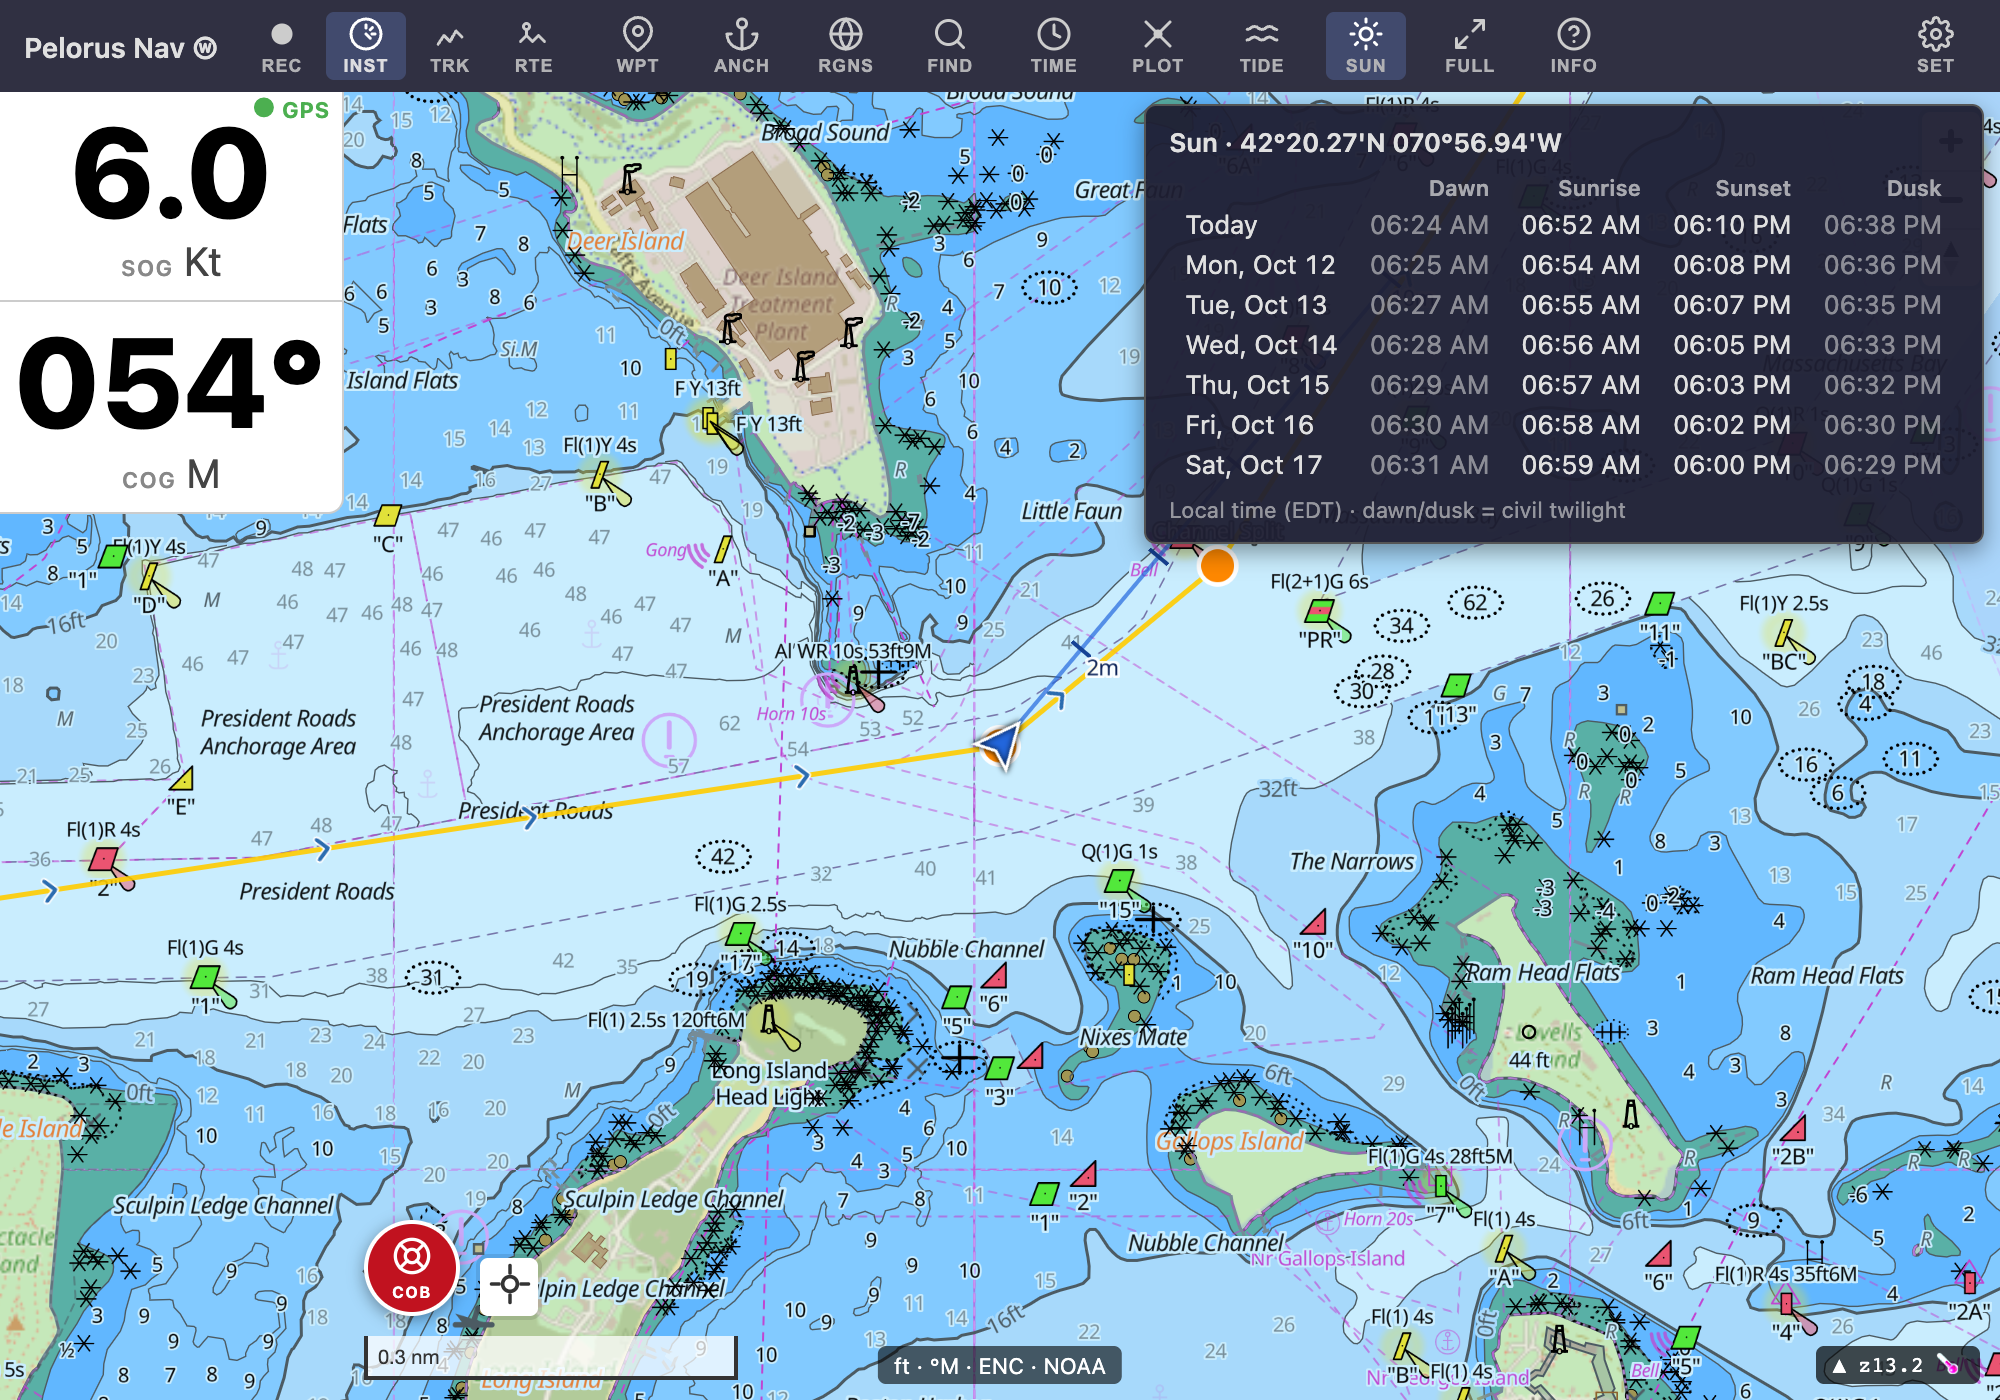
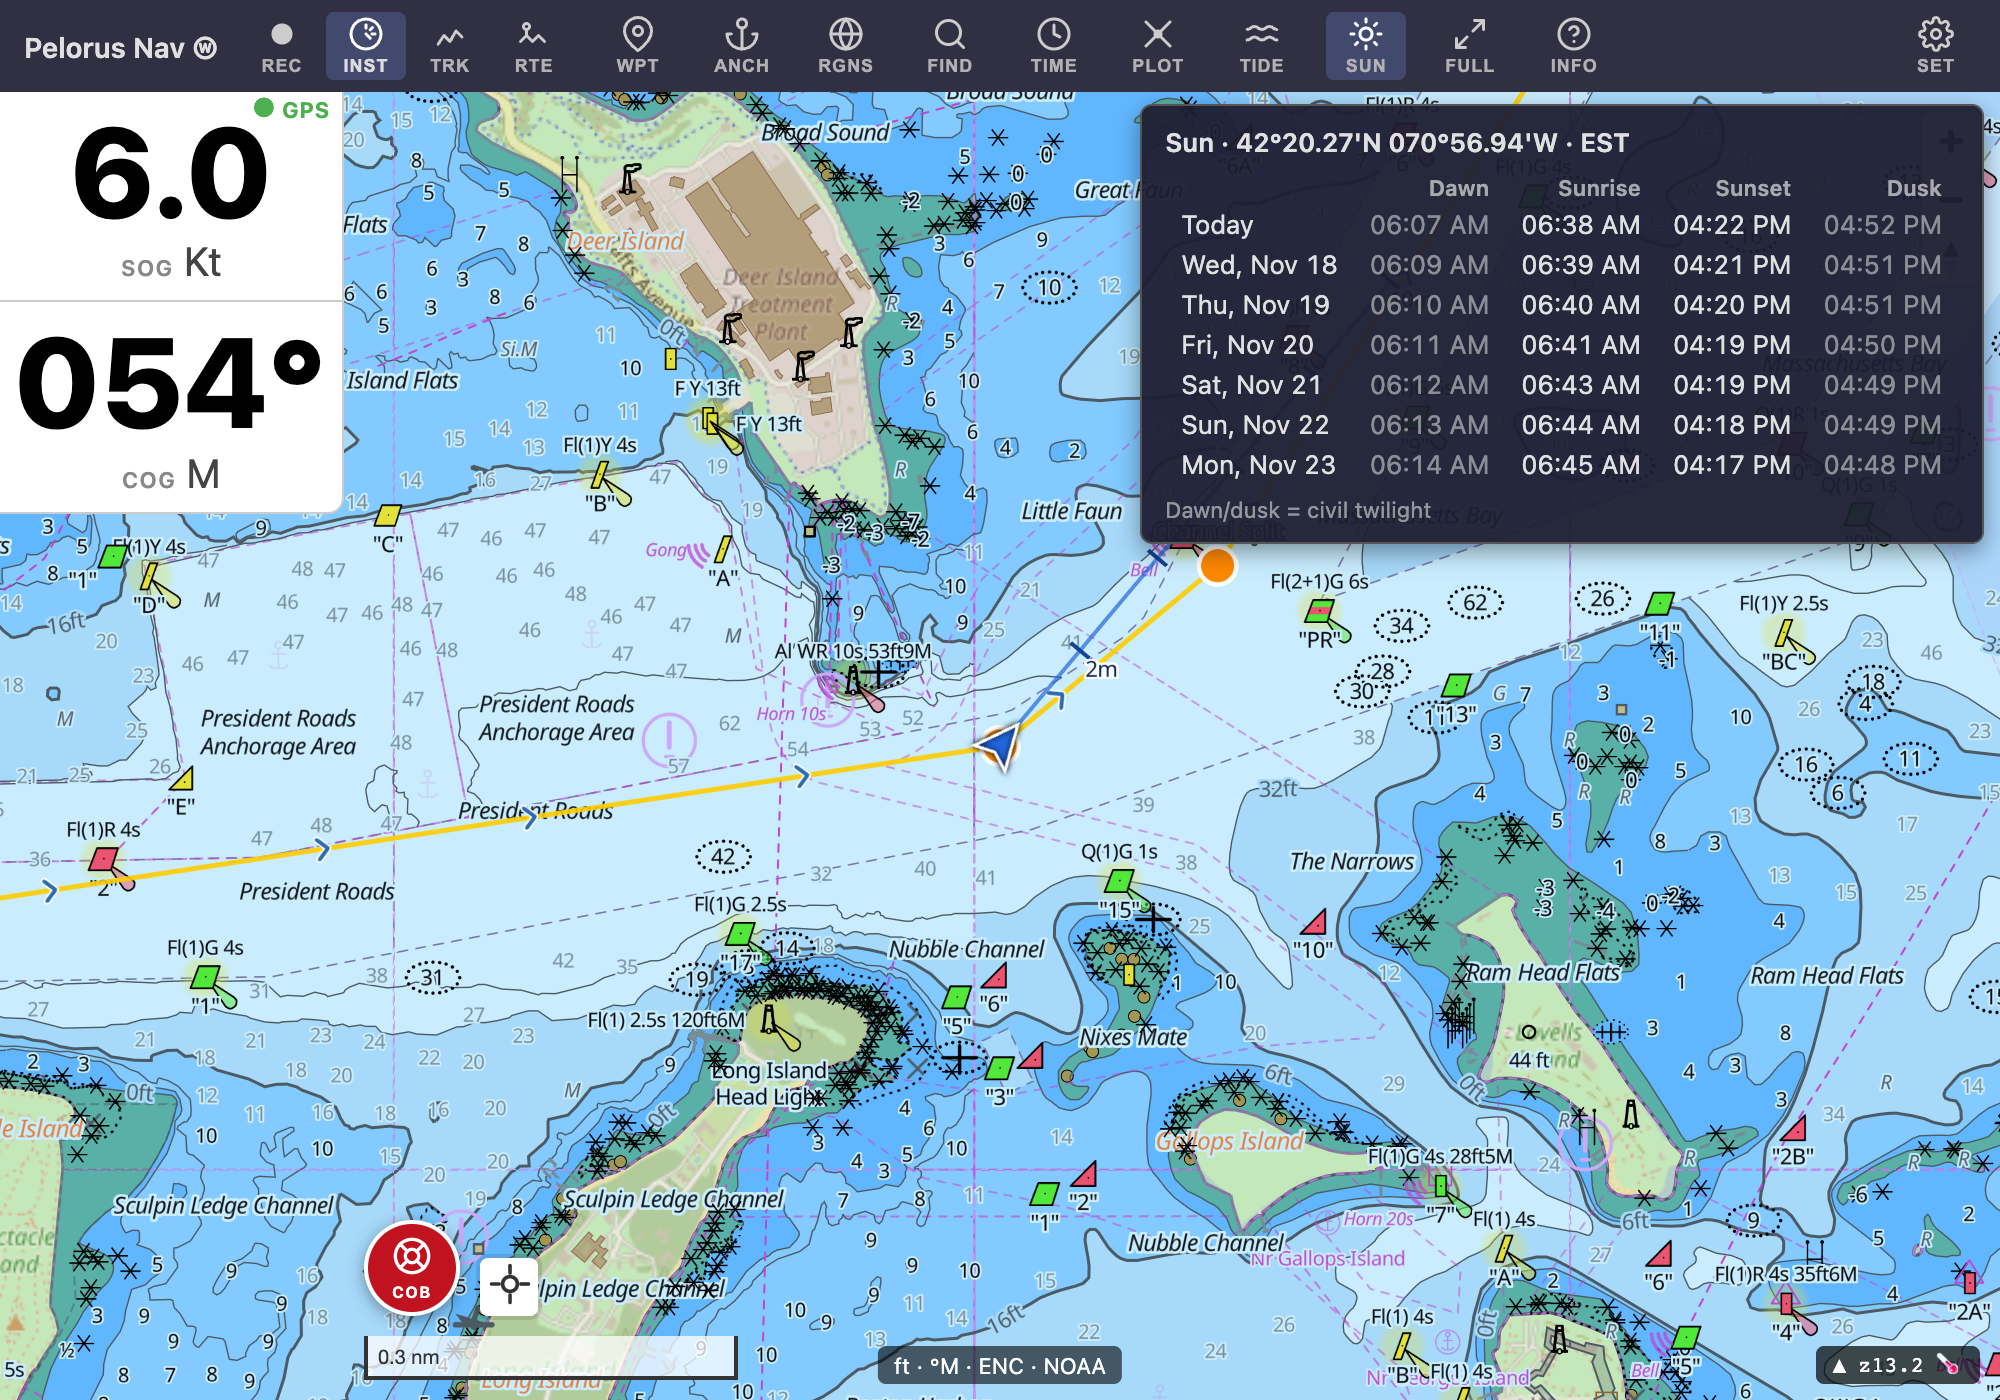
feat(ui): ETA for a go-to, sun time zone up top, first-run hints
- Navigating to a single waypoint now has a destination (the waypoint
  itself), so the caption shows Dest with its distance and arrival time,
  as on a route's last leg.
- The Sun panel shows its time zone in the title beside the position;
  the footer keeps the civil-twilight legend.
- An empty Waypoints panel explains how to mark one from the chart.
- In a browser with no GPS source or no fix after 15 s, a dismissible
  notice suggests an external GPS or the simulator and opens the GPS
  settings. E2E setup pre-dismisses it.

diff --git a/src/ui/NoGpsHint.ts b/src/ui/NoGpsHint.ts
@@ -1,0 +1,79 @@
+/**
+ * In a browser with no position source, the instruments just read "--" and
+ * the app looks like a chart viewer: offer an external GPS or the simulator.
+ * Shown once a while after startup with no fix, until dismissed once; the
+ * native apps always have the device's GPS and never show it.
+ */
+
+import { Capacitor } from "@capacitor/core";
+import { getSettings } from "../settings";
+import { showUpdateNotice } from "./updateNotice";
+
+const NOTICE_ID = "no-gps-hint";
+export const NO_GPS_HINT_DISMISSED_KEY = "pelorus-nav-no-gps-hint-dismissed";
+/** Long enough for a browser's own location to arrive when it can. */
+const WAIT_MS = 15_000;
+
+/** Sources with no receiver of their own: none, or the browser's location. */
+const DEVICE_SOURCES = new Set(["none", "browser-gps"]);
+
+/**
+ * Offer the hint: a browser, a source relying on the device's own location,
+ * no fix yet, and not dismissed before.
+ */
+export function shouldOfferNoGpsHint(opts: {
+  native: boolean;
+  gpsSource: string;
+  hasFix: boolean;
+  dismissed: boolean;
+}): boolean {
+  return (
+    !opts.native &&
+    DEVICE_SOURCES.has(opts.gpsSource) &&
+    !opts.hasFix &&
+    !opts.dismissed
+  );
+}
+
+function wasDismissed(): boolean {
+  try {
+    return localStorage.getItem(NO_GPS_HINT_DISMISSED_KEY) !== null;
+  } catch {
+    return false;
+  }
+}
+
+function rememberDismissed(): void {
+  try {
+    localStorage.setItem(NO_GPS_HINT_DISMISSED_KEY, "1");
+  } catch {
+    // Private mode: the hint may return next visit, which is harmless.
+  }
+}
+
+export function startNoGpsHint(opts: {
+  hasFix: () => boolean;
+  openGpsSettings: () => void;
+}): void {
+  setTimeout(() => {
+    const offer = shouldOfferNoGpsHint({
+      native: Capacitor.isNativePlatform(),
+      gpsSource: getSettings().gpsSource,
+      hasFix: opts.hasFix(),
+      dismissed: wasDismissed(),
+    });
+    if (!offer) return;
+    showUpdateNotice({
+      id: NOTICE_ID,
+      message:
+        "No GPS on this device. Connect an external GPS or try the simulator.",
+      actionLabel: "GPS settings",
+      dismissLabel: "Dismiss",
+      onAction: () => {
+        rememberDismissed();
+        opts.openGpsSettings();
+      },
+      onDismiss: rememberDismissed,
+    });
+  }, WAIT_MS);
+}

diff --git a/tests/e2e/helpers.ts b/tests/e2e/helpers.ts
@@ -2,6 +2,7 @@ import { readFileSync } from "node:fs";
 import type { Page } from "@playwright/test";
 import { ANCHOR_DISCLAIMER_VERSION } from "../../src/anchor/AnchorDisclaimer";
 import { DISCLAIMER_VERSION } from "../../src/ui/DisclaimerDialog";
+import { NO_GPS_HINT_DISMISSED_KEY } from "../../src/ui/NoGpsHint";
 
 /** Current app version from package.json. */
 export const APP_VERSION: string = JSON.parse(
@@ -69,11 +70,13 @@ export async function suppressWhatsNew(page: Page): Promise<void> {
  * Pre-accept the blocking navigation disclaimer (DisclaimerDialog.ts) —
  * without this, app startup halts at the "I Agree" dialog and the map never
  * initializes. Call before page.goto(). The version comes straight from the
- * app source, so a DISCLAIMER_VERSION bump can't strand the suite.
+ * app source, so a DISCLAIMER_VERSION bump can't strand the suite. Also
+ * dismisses the first-run no-GPS hint (NoGpsHint.ts), which would otherwise
+ * cover the chart 15 s into any test without a GPS source.
  */
 export async function acceptDisclaimer(page: Page): Promise<void> {
   await page.addInitScript(
-    ({ version, appVersion }) => {
+    ({ version, appVersion, hintKey }) => {
       localStorage.setItem(
         "pelorus-nav-disclaimer-acceptance",
         JSON.stringify({
@@ -82,8 +85,13 @@ export async function acceptDisclaimer(page: Page): Promise<void> {
           appVersion,
         }),
       );
+      localStorage.setItem(hintKey, "1");
     },
-    { version: DISCLAIMER_VERSION, appVersion: APP_VERSION },
+    {
+      version: DISCLAIMER_VERSION,
+      appVersion: APP_VERSION,
+      hintKey: NO_GPS_HINT_DISMISSED_KEY,
+    },
   );
 }
 

diff --git a/src/navigation/ActiveNavigation.test.ts b/src/navigation/ActiveNavigation.test.ts
@@ -353,10 +353,11 @@ describe("destDistanceNM", () => {
     expect(info?.destDistanceNM).toBeCloseTo(info?.distanceNM ?? -1, 6);
   });
 
-  it("is null in goto mode", () => {
+  it("equals distanceNM in goto mode", () => {
     const nav = makeNavWithFix(42.05, -71.0);
     nav.startGoto({ id: "w9", name: "WP", lat: 42.0, lon: -71.0 });
-    expect(nav.getInfo()?.destDistanceNM).toBeNull();
+    const info = nav.getInfo();
+    expect(info?.destDistanceNM).toBeCloseTo(info?.distanceNM ?? -1, 6);
   });
 });
 
@@ -860,12 +861,13 @@ describe("time to go", () => {
     );
   });
 
-  it("has no destination time in goto mode and passes settling through", () => {
+  it("times a goto's destination as its target and passes settling through", () => {
     const nav = makeNav(avgOn(0, true));
     nav.startGoto({ id: "w9", name: "WP", lat: 42.1, lon: -71.0 });
     const info = nav.getInfo();
-    expect(info?.ttgWaypointMs).toBeGreaterThan(0);
-    expect(info?.ttgDestMs).toBeNull();
-    expect(info?.speedSettling).toBe(true);
+    if (!info || info.ttgWaypointMs == null) throw new Error("no info");
+    expect(info.ttgWaypointMs).toBeGreaterThan(0);
+    expect(info.ttgDestMs).toBeCloseTo(info.ttgWaypointMs, -3);
+    expect(info.speedSettling).toBe(true);
   });
 });

diff --git a/src/ui/NoGpsHint.test.ts b/src/ui/NoGpsHint.test.ts
@@ -1,0 +1,39 @@
+import { describe, expect, it } from "vitest";
+import { shouldOfferNoGpsHint } from "./NoGpsHint";
+
+const base = {
+  native: false,
+  gpsSource: "none",
+  hasFix: false,
+  dismissed: false,
+};
+
+describe("shouldOfferNoGpsHint", () => {
+  it("offers it in a browser with no source and no fix", () => {
+    expect(shouldOfferNoGpsHint(base)).toBe(true);
+  });
+
+  it("offers it when the browser's own location never arrives", () => {
+    expect(shouldOfferNoGpsHint({ ...base, gpsSource: "browser-gps" })).toBe(
+      true,
+    );
+  });
+
+  it("stays quiet in the native apps", () => {
+    expect(shouldOfferNoGpsHint({ ...base, native: true })).toBe(false);
+  });
+
+  it("stays quiet with a fix, a chosen receiver or the simulator", () => {
+    expect(shouldOfferNoGpsHint({ ...base, hasFix: true })).toBe(false);
+    expect(shouldOfferNoGpsHint({ ...base, gpsSource: "web-serial" })).toBe(
+      false,
+    );
+    expect(shouldOfferNoGpsHint({ ...base, gpsSource: "simulator" })).toBe(
+      false,
+    );
+  });
+
+  it("stays quiet once dismissed", () => {
+    expect(shouldOfferNoGpsHint({ ...base, dismissed: true })).toBe(false);
+  });
+});

diff --git a/src/main.ts b/src/main.ts
@@ -152,6 +152,7 @@ import {
   setIcon,
 } from "./ui/icons";
 import { NavigationHUD } from "./ui/NavigationHUD";
+import { startNoGpsHint } from "./ui/NoGpsHint";
 import { registerNavInstruments } from "./ui/nav-instruments";
 import { trackInstrumentHUD } from "./ui/PanelStack";
 import { requestPersistentStorageOnLaunch } from "./ui/persistent-storage";
@@ -1580,6 +1581,10 @@ registerNavInstruments(activeNav);
 instrumentHUD.setActiveNav(activeNav);
 instrumentHUD.onNavCellClick(() => routePanel.showActiveRoute());
 instrumentHUD.onGpsBadgeClick(() => settingsHandle?.open("navigation"));
+startNoGpsHint({
+  hasFix: () => navManager.getLastData() !== null,
+  openGpsSettings: () => settingsHandle?.open("navigation"),
+});
 
 // --- Topbar ---
 // Built before the nav/COB restores below: those await IndexedDB, and a

diff --git a/src/plugins/sun/SunPanel.ts b/src/plugins/sun/SunPanel.ts
@@ -100,7 +100,8 @@ export class SunPanel {
 
     const title = document.createElement("div");
     title.className = "sun-popup-title";
-    title.textContent = `Sun · ${formatLatLon(lat, "lat")} ${formatLatLon(lon, "lon")}`;
+    const tz = shortTimeZone();
+    title.textContent = `Sun · ${formatLatLon(lat, "lat")} ${formatLatLon(lon, "lon")}${tz ? ` · ${tz}` : ""}`;
     root.appendChild(title);
 
     const table = document.createElement("table");
@@ -153,8 +154,7 @@ export class SunPanel {
 
     const note = document.createElement("div");
     note.className = "sun-popup-note";
-    const tz = shortTimeZone();
-    note.textContent = `Local time${tz ? ` (${tz})` : ""} · dawn/dusk = civil twilight`;
+    note.textContent = "Dawn/dusk = civil twilight";
     root.appendChild(note);
     return root;
   }

diff --git a/src/ui/updateNotice.ts b/src/ui/updateNotice.ts
@@ -11,7 +11,9 @@ export interface UpdateNoticeOptions {
   message: string;
   actionLabel: string;
   onAction: () => void;
-  /** Called when the user dismisses with "Later". */
+  /** The dismiss button's label; "Later" by default. */
+  dismissLabel?: string;
+  /** Called when the user dismisses the notice. */
   onDismiss?: () => void;
 }
 
@@ -33,7 +35,7 @@ export function showUpdateNotice(options: UpdateNoticeOptions): void {
   });
 
   const laterBtn = document.createElement("button");
-  laterBtn.textContent = "Later";
+  laterBtn.textContent = options.dismissLabel ?? "Later";
   laterBtn.addEventListener("click", () => {
     notice.remove();
     options.onDismiss?.();

diff --git a/src/navigation/ActiveNavigation.ts b/src/navigation/ActiveNavigation.ts
@@ -450,10 +450,11 @@ export class ActiveNavigationManager {
   }
 
   /**
-   * Distance to the route's final waypoint: vessel→target plus the legs
-   * beyond it. null in goto mode.
+   * Distance to the destination: for a route, vessel→target plus the legs
+   * beyond it; for a goto, the target itself. null when not navigating.
    */
   private destDistanceNM(targetDistNM: number): number | null {
+    if (this.state.type === "goto") return targetDistNM;
     if (this.state.type !== "route") return null;
     const remaining = this.state.route.waypoints.slice(this.state.legIndex);
     return targetDistNM + pathDistanceNM(remaining);

diff --git a/src/ui/WaypointManagerPanel.ts b/src/ui/WaypointManagerPanel.ts
@@ -253,7 +253,8 @@ export class WaypointManagerPanel {
     const waypoints = this.waypointLayer.getWaypoints();
 
     if (waypoints.length === 0) {
-      this.body.innerHTML = '<div class="manager-empty">No waypoints</div>';
+      this.body.innerHTML =
+        '<div class="manager-empty">No waypoints yet. To add one, press and hold the chart (right-click on a computer) and choose <b>Mark waypoint here</b>.</div>';
       return;
     }
 

diff --git a/CHANGELOG.md b/CHANGELOG.md
@@ -7,6 +7,16 @@ The format follows [Keep a Changelog](https://keepachangelog.com/).
 
 ## [Unreleased]
 
+### Added
+- Navigating to a single waypoint shows its distance and your arrival time
+  (Dest), as navigating a route does.
+- In a web browser with no GPS, the app suggests connecting an external GPS
+  or trying the simulator.
+
+### Changed
+- The Sun panel shows its time zone beside the position.
+- An empty Waypoints panel explains how to add a waypoint.
+
 ## [1.2.0] - 2026-11-05
 
 ### Added

diff --git a/docs-site/routes.md b/docs-site/routes.md
@@ -265,4 +265,5 @@ bottom-left of the chart, the route's stop button, or the Escape key.
 
 You can also navigate directly to a single waypoint without a route: open
 **Waypoints** and tap **Navigate to** on any waypoint, or drop one from the
-chart's context menu first. The same navigation instruments apply.
+chart's context menu first. The same navigation instruments apply, with
+**Dest** giving the distance to that waypoint and your arrival time.
